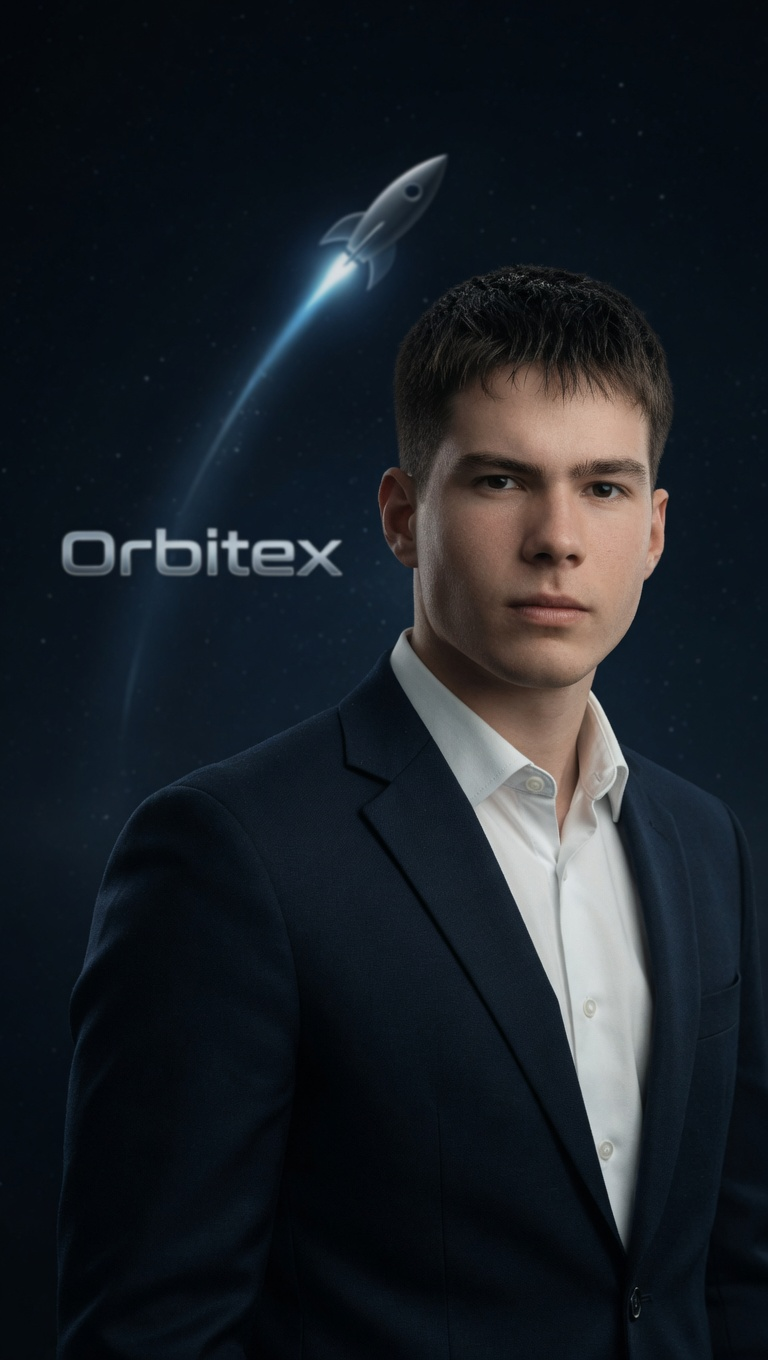
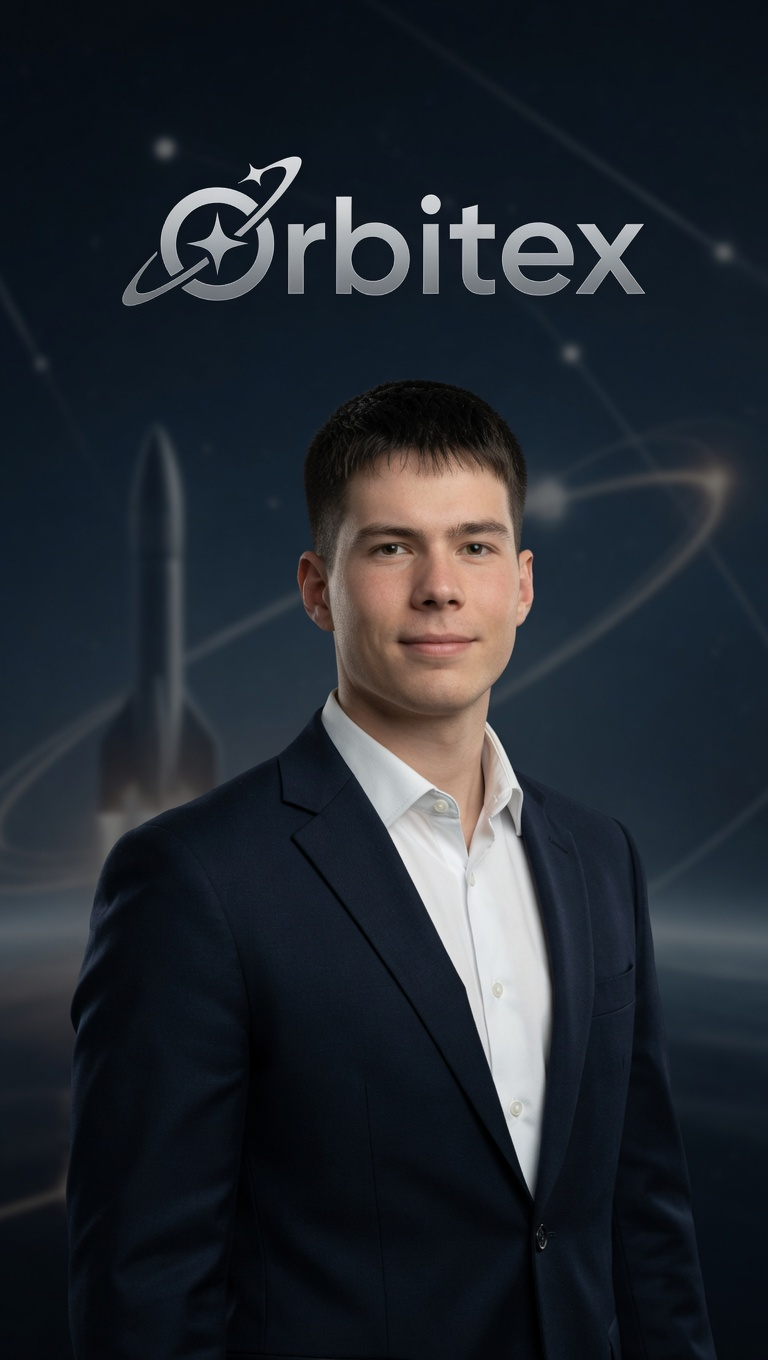
Add files via upload

diff --git a/index.html b/index.html
@@ -519,7 +519,7 @@
           </div>
           <div class="teamCard">
             <div class="teamCard__top">
-              <div class="teamCard__avatar teamCard__avatar--placeholder" aria-hidden="true"></div>
+              <img class="teamCard__avatar" src="pics/Leon.jpg" alt="Porträt: Kelmendi Leon" loading="lazy" />
               <div>
             <div class="teamCard__role">Chief Engineering Officer (CTO)</div>
                 <div class="teamCard__name">Kelmendi Leon</div>
